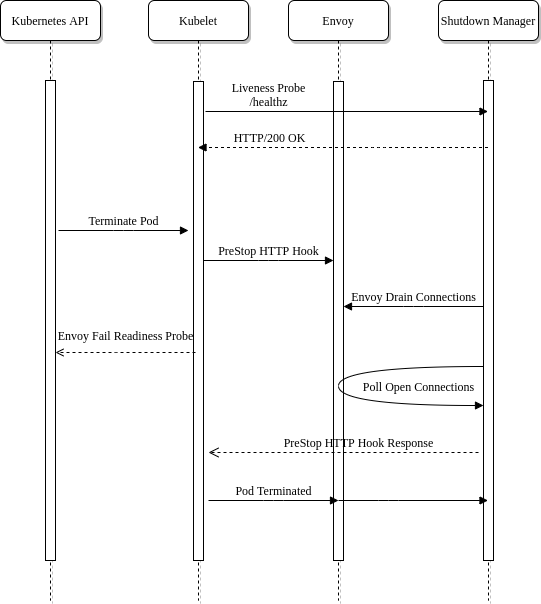
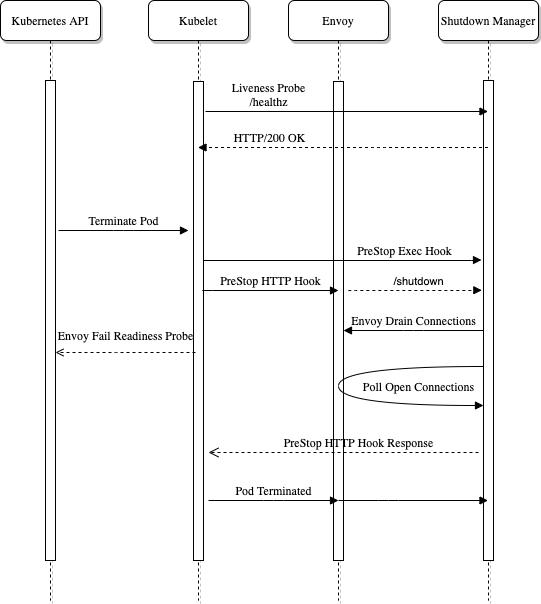
site: shutdown manager docs update
Update the shutdown manager docs for change to use the preStop exec handler over the http handler.

diff --git a/site/docs/master/redeploy-envoy.md b/site/docs/master/redeploy-envoy.md
@@ -29,10 +29,11 @@ It exposes two HTTP endpoints which are used for `livenessProbe` as well as to h
    imagePullPolicy: Always
    lifecycle:
      preStop:
-       httpGet:
-         path: /shutdown
-         port: 8090
-         scheme: HTTP
+       exec:
+         command:
+           - /bin/contour
+           - envoy
+           - shutdown
    livenessProbe:
      httpGet:
        path: /healthz
@@ -42,7 +43,7 @@ It exposes two HTTP endpoints which are used for `livenessProbe` as well as to h
 ```
 
 The Envoy container also has some configuration to implement the shutdown manager.
-First the `preStop` hook is configured to use the `/shutdown` endpoint which blocks the container from exiting.
+First the `preStop` hook is configured to use the `/shutdown` endpoint which blocks the Envoy container from exiting.
 Finally, the pod's `terminationGracePeriodSeconds` is customized to extend the time in which Kubernetes will allow the pod to be in the `Terminating` state.
 The termination grace period defines an upper bound for long-lived sessions.
 If during shutdown, the connections aren't drained to the configured amount, the `terminationGracePeriodSeconds` will send a `SIGTERM` to the pod killing it.
